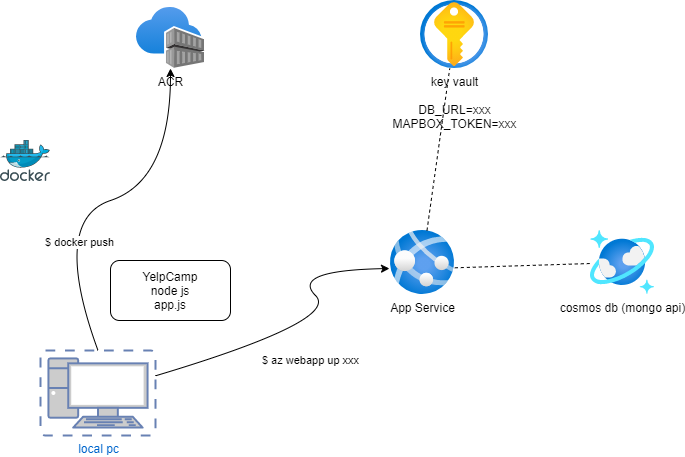
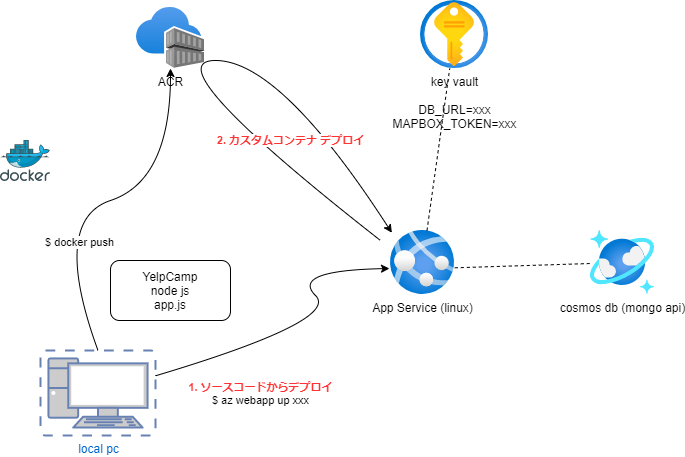
update

diff --git a/deploy2azure/README.md b/deploy2azure/README.md
@@ -1,5 +1,11 @@
 # Azure App Service へデプロイ
 
+想定するデプロイ環境
+２種類試します。
+1. ソースコードからデプロイ
+2. カスタムコンテナを利用したデプロイ
+![image](./deployToAppService.png)
+
 linux(wsl)で作業
 ```
 cat /etc/os-release 
@@ -12,7 +18,8 @@ node js
 node -v 
 v14.18.1
 ```
-## local 実行
+
+## まずは local PC で実行して動作確認
 ```
 npm install
 npm run start
